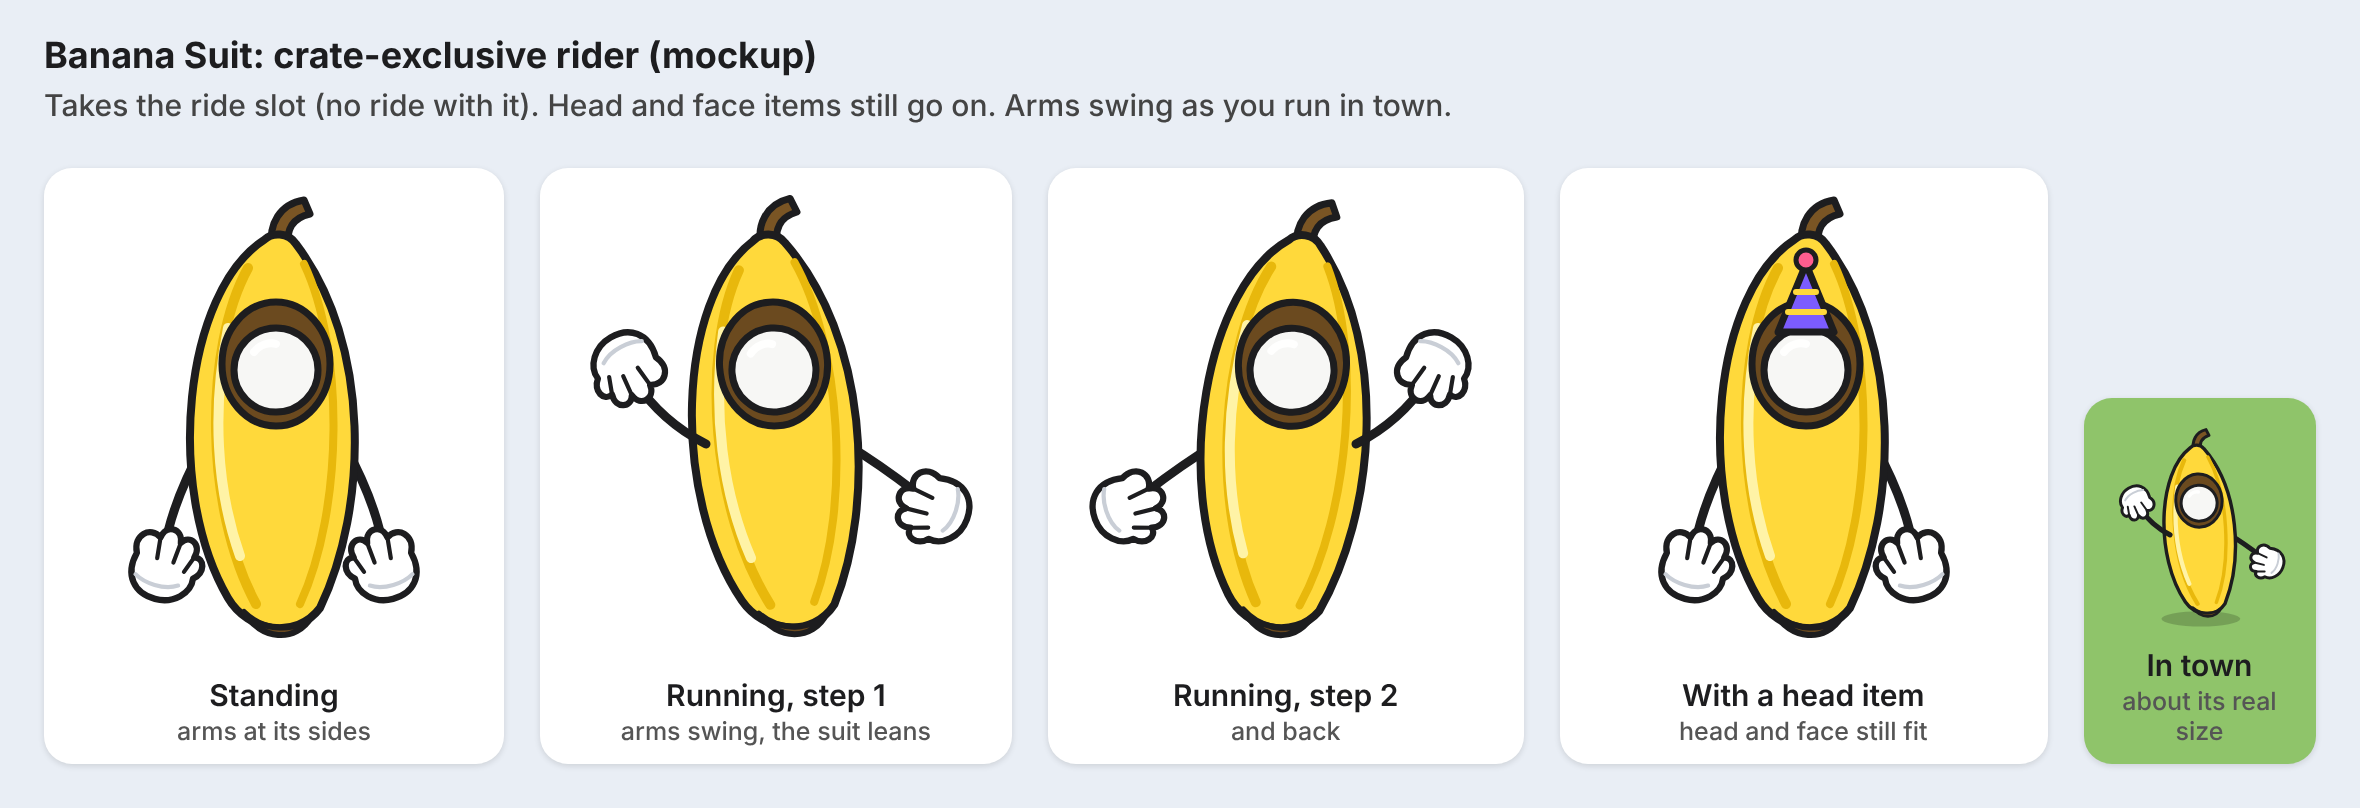
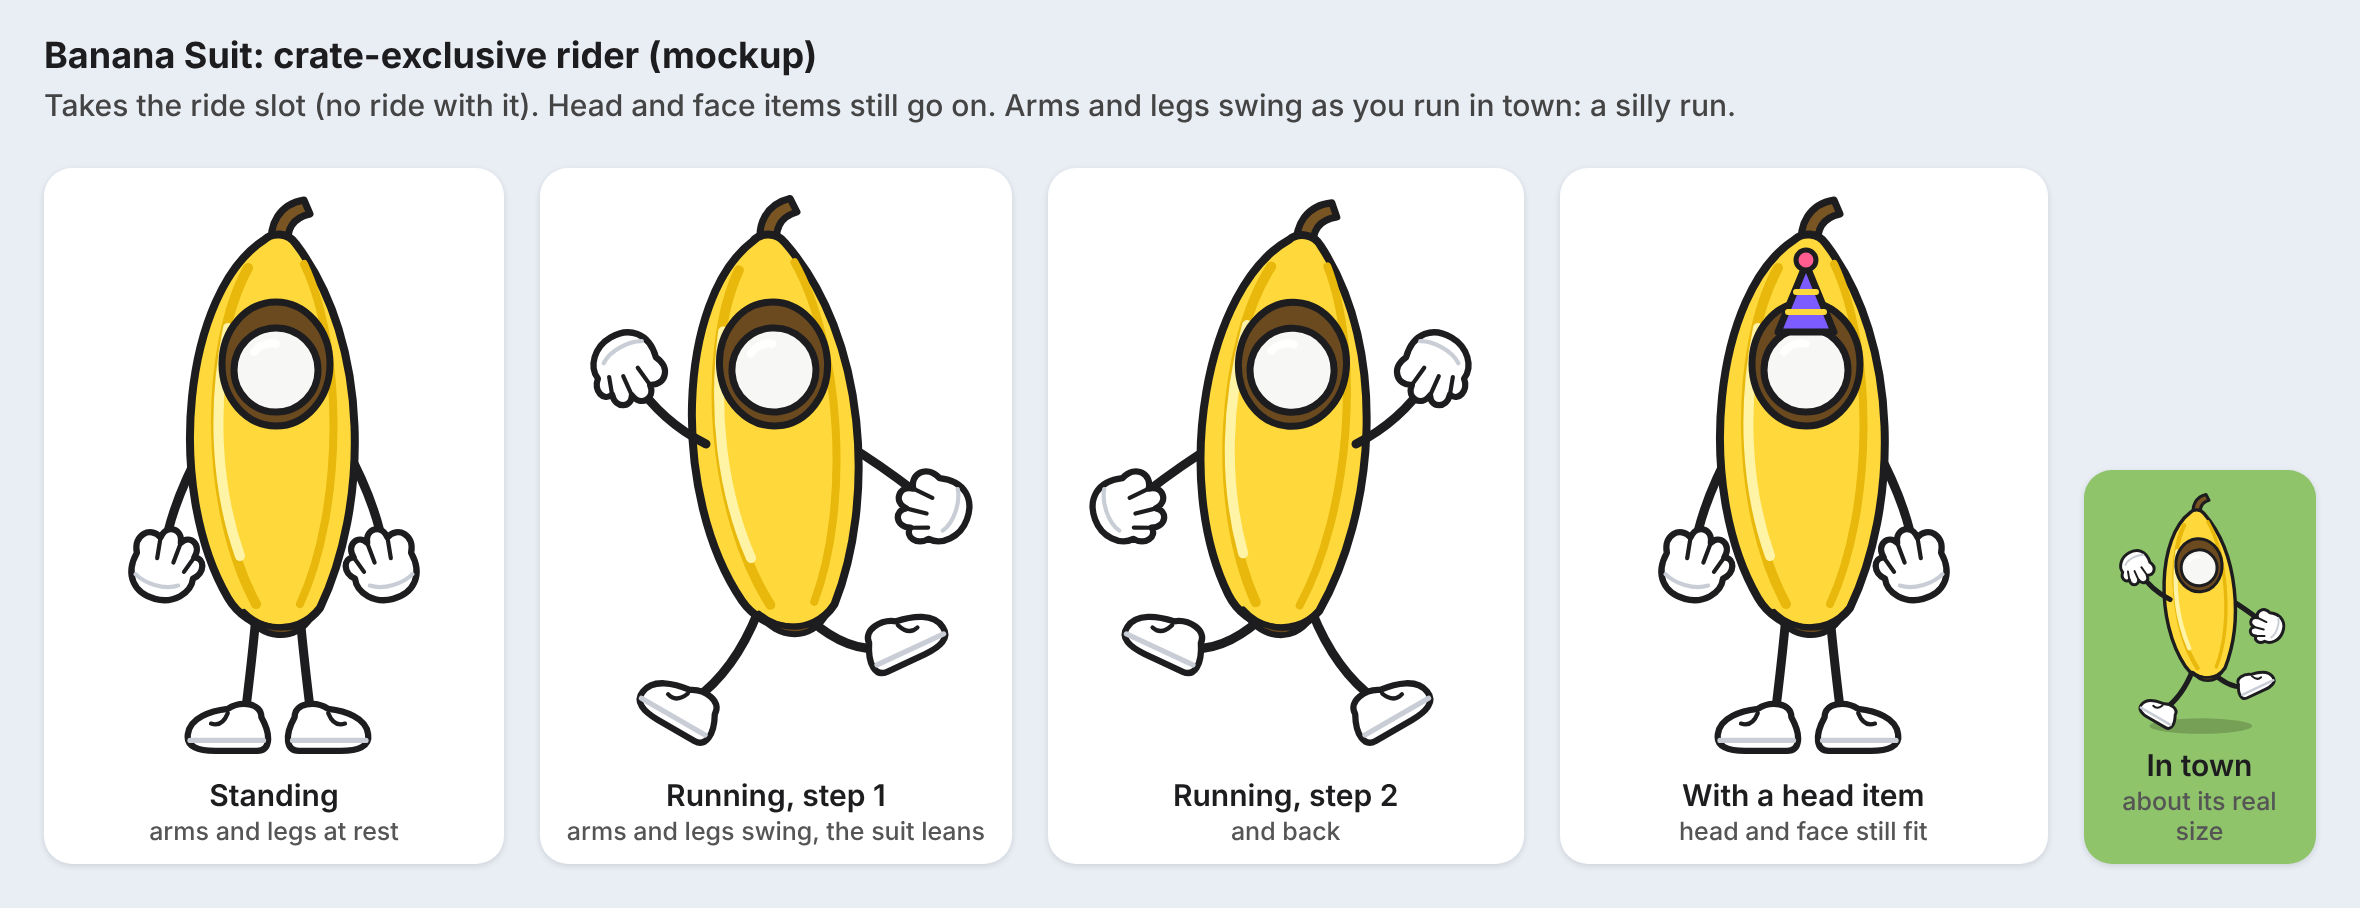
Banana Suit mockup with legs

diff --git a/notes/assets/banana-suit-mockup.html b/notes/assets/banana-suit-mockup.html
@@ -9,7 +9,7 @@
   p { margin: 4px 22px 0; font-weight: 500; color: #444; }
 </style></head><body>
 <h1>Banana Suit: crate-exclusive rider (mockup)</h1>
-<p>Takes the ride slot (no ride with it). Head and face items still go on. Arms swing as you run in town.</p>
+<p>Takes the ride slot (no ride with it). Head and face items still go on. Arms and legs swing as you run in town: a silly run.</p>
 <svg width="0" height="0" style="position:absolute">
   <defs>
     <!-- One glove: a big white cartoon mitt, 3 fingers and a thumb. -->
@@ -18,6 +18,13 @@
         fill="#fff" stroke="#1d1d1f" stroke-width="3" stroke-linejoin="round"/>
       <path d="M-4 -16 L-3 -6 M6 -16 L5 -6 M14 -11 L11 -3" fill="none" stroke="#1d1d1f" stroke-width="2" stroke-linecap="round"/>
       <path d="M-11 4 C-6 7 4 8 10 4" fill="none" stroke="#c9ced6" stroke-width="2" stroke-linecap="round"/>
+    </g>
+    <!-- One shoe: a big white cartoon shoe (the gloves' style), its toe to the right. -->
+    <g id="shoe">
+      <path d="M-14 -7 C-14 -14 -4 -15 2 -11 C10 -10 20 -7 21 1 C22 7 16 9 8 9 L-12 9 C-18 9 -19 2 -14 -7 Z"
+        fill="#fff" stroke="#1d1d1f" stroke-width="3" stroke-linejoin="round"/>
+      <path d="M-15 4 L20 4" stroke="#c9ced6" stroke-width="2.5" stroke-linecap="round"/>
+      <path d="M2 -9 C4 -4 7 -3 10 -4" fill="none" stroke="#1d1d1f" stroke-width="2" stroke-linecap="round"/>
     </g>
     <!-- The suit: a banana, its face hole, the pawn's head in it. -->
     <g id="suit">
@@ -41,33 +48,49 @@
 </svg>
 <div class="sheet">
   <!-- Standing: arms down at its sides. -->
-  <div class="cell"><svg width="210" height="240" viewBox="0 0 210 240">
+  <div class="cell"><svg width="210" height="290" viewBox="0 0 210 290">
     <path d="M70 128 C58 150 52 168 50 182" fill="none" stroke="#1d1d1f" stroke-width="4.5" stroke-linecap="round"/>
     <path d="M140 128 C152 150 158 168 160 182" fill="none" stroke="#1d1d1f" stroke-width="4.5" stroke-linecap="round"/>
+    <path d="M96 214 C94 236 92 252 90 268" fill="none" stroke="#1d1d1f" stroke-width="4.5" stroke-linecap="round"/>
+    <path d="M118 214 C120 236 122 252 124 268" fill="none" stroke="#1d1d1f" stroke-width="4.5" stroke-linecap="round"/>
+    <use href="#shoe" transform="translate(84 272) scale(-1.05 1.05)"/>
+    <use href="#shoe" transform="translate(130 272) scale(1.05)"/>
     <use href="#suit"/>
     <use href="#glove" transform="translate(48 192) rotate(15) scale(1.05)"/>
     <use href="#glove" transform="translate(162 192) rotate(-15) scale(-1.05 1.05)"/>
-  </svg>Standing<small>arms at its sides</small></div>
+  </svg>Standing<small>arms and legs at rest</small></div>
   <!-- Running, step 1: left arm forward, right arm back. -->
-  <div class="cell"><svg width="210" height="240" viewBox="0 0 210 240">
+  <div class="cell"><svg width="210" height="290" viewBox="0 0 210 290">
     <path d="M140 128 C160 140 172 150 180 156" fill="none" stroke="#1d1d1f" stroke-width="4.5" stroke-linecap="round"/>
+    <path d="M96 212 C88 232 78 246 64 256" fill="none" stroke="#1d1d1f" stroke-width="4.5" stroke-linecap="round"/>
+    <path d="M118 212 C132 226 146 232 160 230" fill="none" stroke="#1d1d1f" stroke-width="4.5" stroke-linecap="round"/>
+    <use href="#shoe" transform="translate(58 262) rotate(30) scale(-1.05 1.05)"/>
+    <use href="#shoe" transform="translate(168 228) rotate(-25) scale(1.05)"/>
     <g transform="rotate(-4 105 120)"><use href="#suit"/></g>
     <path d="M70 128 C54 120 42 108 34 96" fill="none" stroke="#1d1d1f" stroke-width="4.5" stroke-linecap="round"/>
     <use href="#glove" transform="translate(30 86) rotate(150) scale(1.05)"/>
     <use href="#glove" transform="translate(188 160) rotate(-70) scale(-1.05 1.05)"/>
-  </svg>Running, step 1<small>arms swing, the suit leans</small></div>
+  </svg>Running, step 1<small>arms and legs swing, the suit leans</small></div>
   <!-- Running, step 2: the other way. -->
-  <div class="cell"><svg width="210" height="240" viewBox="0 0 210 240">
+  <div class="cell"><svg width="210" height="290" viewBox="0 0 210 290">
     <path d="M70 128 C50 140 38 150 30 156" fill="none" stroke="#1d1d1f" stroke-width="4.5" stroke-linecap="round"/>
+    <path d="M96 212 C82 226 68 232 54 230" fill="none" stroke="#1d1d1f" stroke-width="4.5" stroke-linecap="round"/>
+    <path d="M118 212 C126 232 136 246 150 256" fill="none" stroke="#1d1d1f" stroke-width="4.5" stroke-linecap="round"/>
+    <use href="#shoe" transform="translate(46 228) rotate(25) scale(-1.05 1.05)"/>
+    <use href="#shoe" transform="translate(156 262) rotate(-30) scale(1.05)"/>
     <g transform="rotate(4 105 120)"><use href="#suit"/></g>
     <path d="M140 128 C156 120 168 108 176 96" fill="none" stroke="#1d1d1f" stroke-width="4.5" stroke-linecap="round"/>
     <use href="#glove" transform="translate(22 160) rotate(70) scale(1.05)"/>
     <use href="#glove" transform="translate(180 86) rotate(-150) scale(-1.05 1.05)"/>
   </svg>Running, step 2<small>and back</small></div>
   <!-- With a head item: a party hat on the pawn's head (head and face slots still work). -->
-  <div class="cell"><svg width="210" height="240" viewBox="0 0 210 240">
+  <div class="cell"><svg width="210" height="290" viewBox="0 0 210 290">
     <path d="M70 128 C58 150 52 168 50 182" fill="none" stroke="#1d1d1f" stroke-width="4.5" stroke-linecap="round"/>
     <path d="M140 128 C152 150 158 168 160 182" fill="none" stroke="#1d1d1f" stroke-width="4.5" stroke-linecap="round"/>
+    <path d="M96 214 C94 236 92 252 90 268" fill="none" stroke="#1d1d1f" stroke-width="4.5" stroke-linecap="round"/>
+    <path d="M118 214 C120 236 122 252 124 268" fill="none" stroke="#1d1d1f" stroke-width="4.5" stroke-linecap="round"/>
+    <use href="#shoe" transform="translate(84 272) scale(-1.05 1.05)"/>
+    <use href="#shoe" transform="translate(130 272) scale(1.05)"/>
     <use href="#suit"/>
     <path d="M92 72 L106 38 L120 72 Z" fill="#7c5cff" stroke="#1d1d1f" stroke-width="3.5" stroke-linejoin="round"/>
     <path d="M97 62 L115 62 M101 52 L111 52" stroke="#ffd93b" stroke-width="3" stroke-linecap="round"/>
@@ -76,9 +99,13 @@
     <use href="#glove" transform="translate(162 192) rotate(-15) scale(-1.05 1.05)"/>
   </svg>With a head item<small>head and face still fit</small></div>
   <!-- Town size: small, on the grass. -->
-  <div class="cell town"><svg width="90" height="110" viewBox="0 0 210 240">
-    <ellipse cx="106" cy="226" rx="46" ry="9" fill="#000" opacity=".18"/>
+  <div class="cell town"><svg width="90" height="124" viewBox="0 0 210 290">
+    <ellipse cx="106" cy="276" rx="60" ry="9" fill="#000" opacity=".18"/>
     <path d="M140 128 C160 140 172 150 180 156" fill="none" stroke="#1d1d1f" stroke-width="6" stroke-linecap="round"/>
+    <path d="M96 212 C88 232 78 246 64 256" fill="none" stroke="#1d1d1f" stroke-width="6" stroke-linecap="round"/>
+    <path d="M118 212 C132 226 146 232 160 230" fill="none" stroke="#1d1d1f" stroke-width="6" stroke-linecap="round"/>
+    <use href="#shoe" transform="translate(58 262) rotate(30) scale(-1.15 1.15)"/>
+    <use href="#shoe" transform="translate(168 228) rotate(-25) scale(1.15)"/>
     <g transform="rotate(-4 105 120)"><use href="#suit"/></g>
     <path d="M70 128 C54 120 42 108 34 96" fill="none" stroke="#1d1d1f" stroke-width="6" stroke-linecap="round"/>
     <use href="#glove" transform="translate(30 86) rotate(150) scale(1.15)"/>

diff --git a/notes/STATUS.md b/notes/STATUS.md
@@ -716,4 +716,4 @@ BLOCKED on Eric: the settings redesign (he said he'd send the UI first), the cla
 
 - Nov 10 07:15 UTC (1:15 am Central): #599 LIVE (d6f6461). #601 delta 2: blocker closed; major (4 accounts fill a fixed class threshold) fixed by me (pairClassShare 10%: 4 acct 5.9%), round-3 head 5c70713, CI running; merge when green. Quest reroll helper session (xhigh) on claude/quest-reroll. Flaky batch 5 brief +colosseum:42 desktop; START after quest reroll (one xhigh at a time).
 
-- Nov 10 07:10 UTC: Eric wants 5 non-boss crate-exclusive riders. His: Banana Suit (takes the ride slot, head/face items still on, arms swing while running). Mockup: notes/assets/banana-suit-mockup.png (+ .html). My suggestions: Rocking Horse (knight), Shopping Cart, Robot Vacuum, Magic Carpet (Pogo Stick taken: boingo-pogo); backups: duck float, office chair, wheelbarrow, snail. Waiting on Eric's picks; then item-builder (Opus high, art).
+- Nov 10 07:10 UTC: Eric wants 5 non-boss crate-exclusive riders. His: Banana Suit (takes the ride slot, head/face items still on, arms AND legs (thin legs, big white cartoon shoes like the gloves) swing opposite each other: a silly run). Mockup: notes/assets/banana-suit-mockup.png (+ .html). My suggestions: Rocking Horse (knight), Shopping Cart, Robot Vacuum, Magic Carpet (Pogo Stick taken: boingo-pogo); backups: duck float, office chair, wheelbarrow, snail. Waiting on Eric's picks; then item-builder (Opus high, art).
